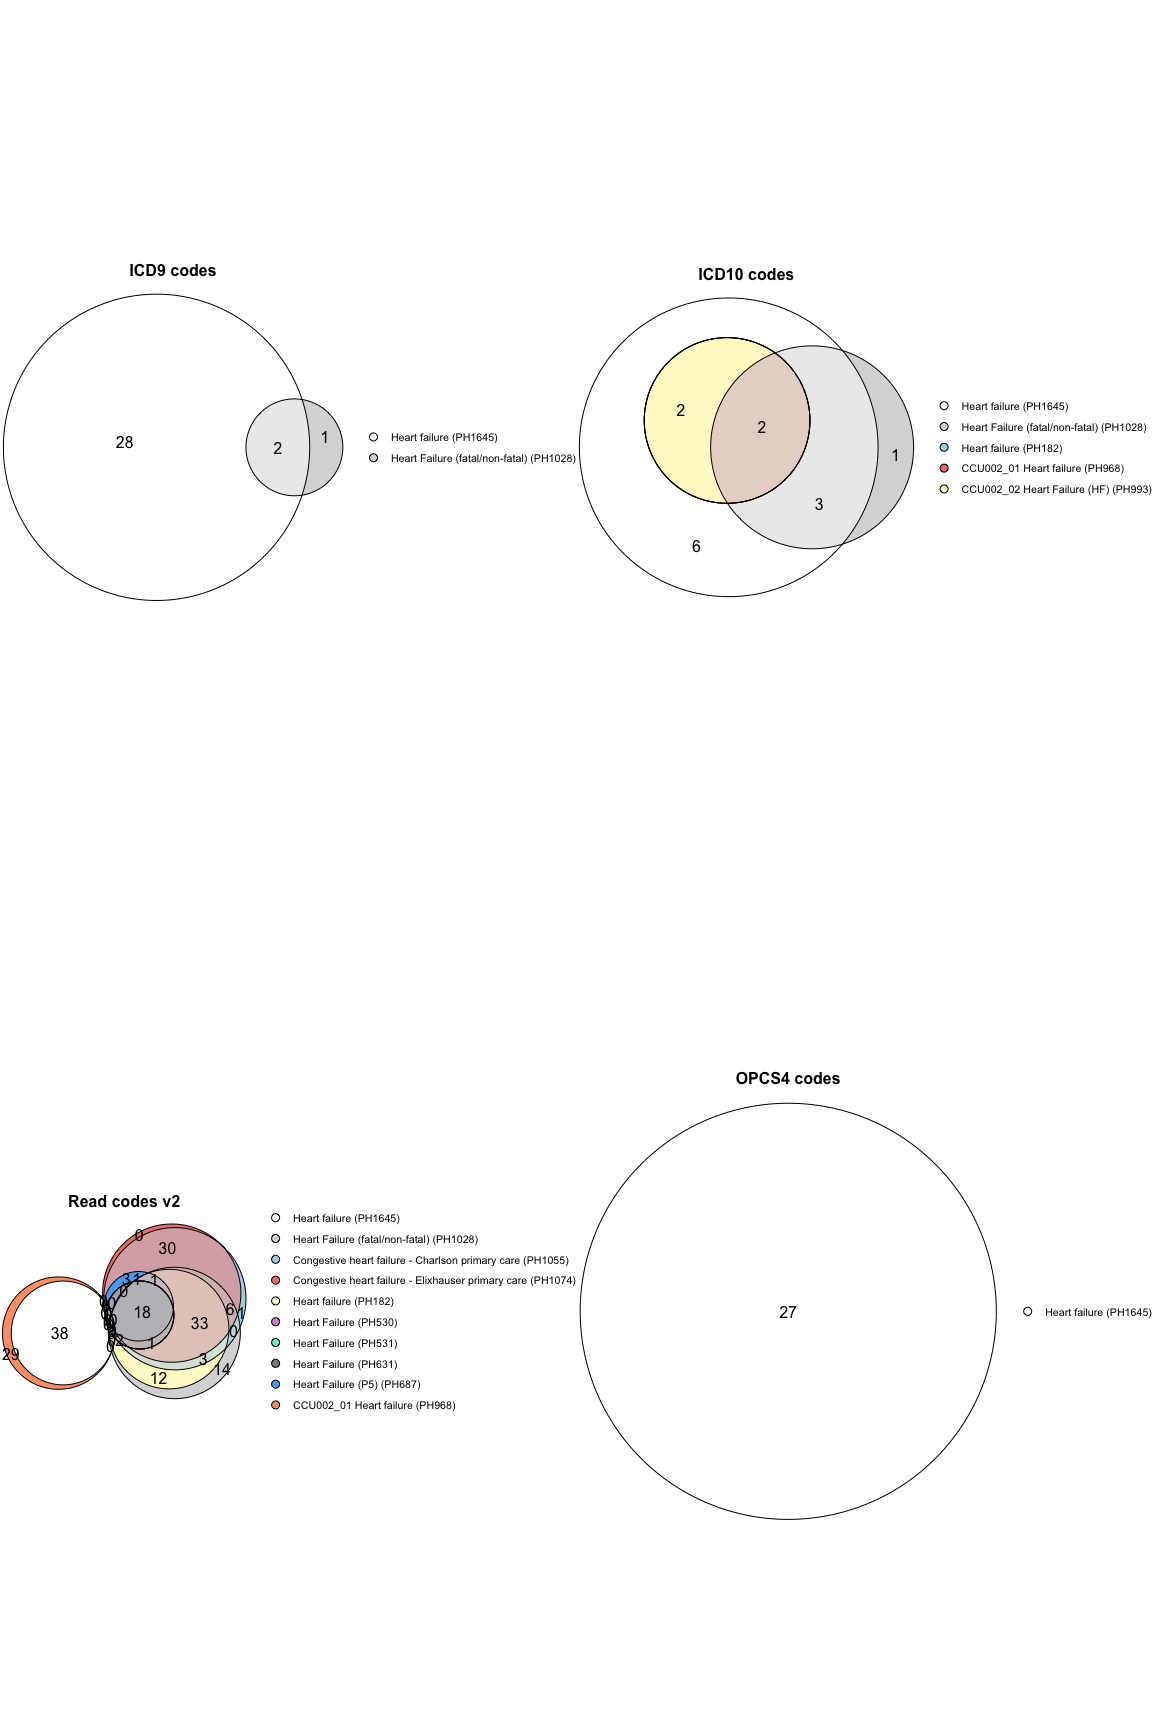
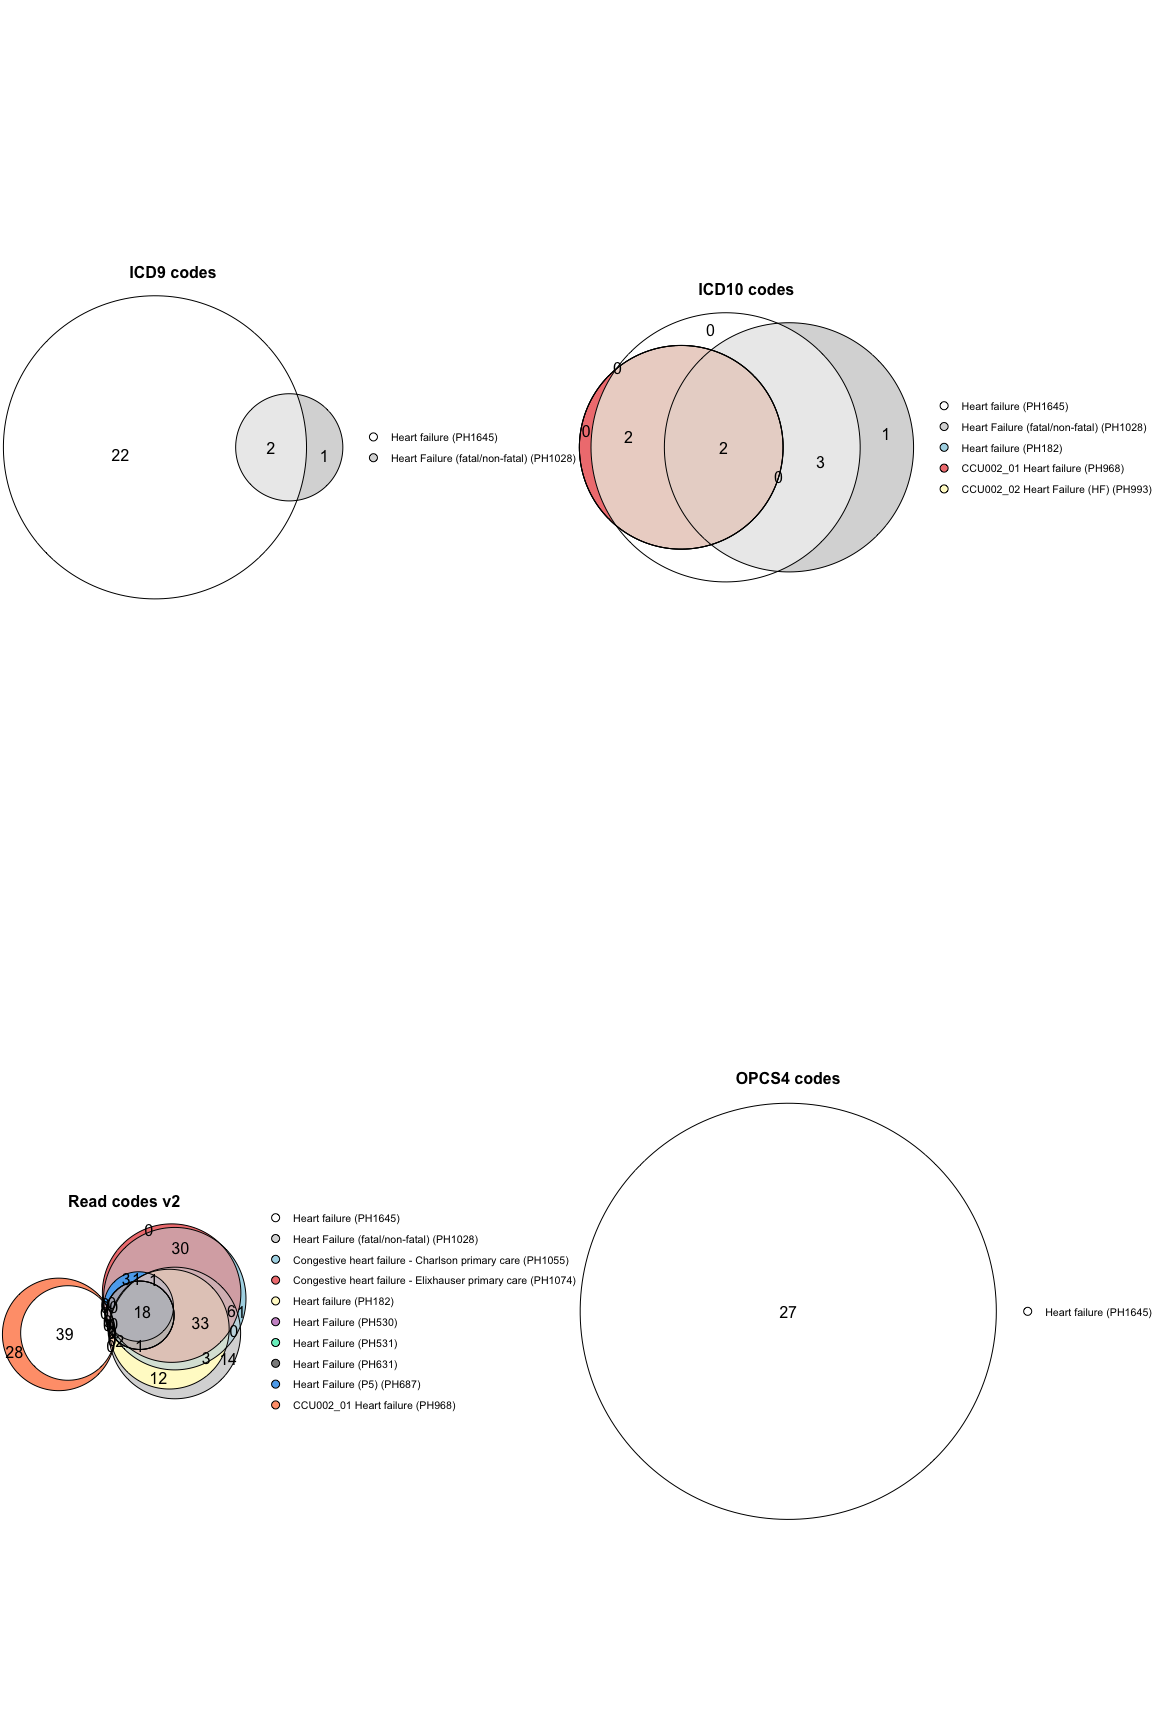
.

diff --git a/README.md b/README.md
@@ -57,10 +57,10 @@ get_codes(pheno_id = "PH1645")[1:5, c("phenotype_id", "phenotype_name", "coding_
 #>    phenotype_id phenotype_name coding_system.name   code
 #>          <char>         <char>             <char> <char>
 #> 1:       PH1645  Heart failure         ICD9 codes  40201
-#> 2:       PH1645  Heart failure         ICD9 codes  42830
-#> 3:       PH1645  Heart failure         ICD9 codes  42832
-#> 4:       PH1645  Heart failure         ICD9 codes   4281
-#> 5:       PH1645  Heart failure         ICD9 codes  42843
+#> 2:       PH1645  Heart failure         ICD9 codes  42832
+#> 3:       PH1645  Heart failure         ICD9 codes  42821
+#> 4:       PH1645  Heart failure         ICD9 codes  42823
+#> 5:       PH1645  Heart failure         ICD9 codes  42820
 ```
 
 ### Phenotyping a dataset
@@ -100,28 +100,28 @@ can be multiple included or excluded phenotypes given in a list.
 result <- phenotype(x         = dat, 
                     id_col    = "ids",
                     code_cols = list("ICD10 codes" = c("codes", "codes1")), 
-                    include   = list("PH1643", "PH1646"), 
-                    exclude   = list("PH1637", "PH1636", "PH1640"))
+                    include   = list("PH1645"), 
+                    exclude   = list("PH1637"))
 #> Phenotyping...
 #> [i] processing 10 records
 #> [i] pivoting data longer
-#> [i] getting inclusion phenotype codes from PhenoID(s) PH1643, PH1646 
-#> [i] getting exclusion phenotype codes from PhenoID(s) PH1637, PH1636, PH1640 
-#> [i] assessing phenotype PH1643 
-#> [i] assessing phenotype PH1646 
+#> [i] getting inclusion phenotype codes from PhenoID(s) PH1645 
+#> [i] getting exclusion phenotype codes from PhenoID(s) PH1637 
+#> [i] assessing phenotype PH1645 
 #> [i] assessing phenotype PH1637 
-#> [i] assessing phenotype PH1636 
-#> [i] assessing phenotype PH1640 
 #> [i] summarising phenotyping of participants
 #> [i] finished
+```
+
+``` r
 result[]
-#>       ids PH1643 PH1646 PH1637 PH1636 PH1640   none include exclude overall
-#>    <char> <lgcl> <lgcl> <lgcl> <lgcl> <lgcl> <lgcl>  <lgcl>  <lgcl>  <lgcl>
-#> 1:   ID_1  FALSE   TRUE  FALSE  FALSE  FALSE  FALSE    TRUE   FALSE    TRUE
-#> 2:   ID_2  FALSE   TRUE  FALSE  FALSE  FALSE  FALSE    TRUE   FALSE    TRUE
-#> 3:   ID_3  FALSE  FALSE  FALSE  FALSE  FALSE   TRUE   FALSE   FALSE   FALSE
-#> 4:   ID_4  FALSE  FALSE  FALSE  FALSE  FALSE   TRUE   FALSE   FALSE   FALSE
-#> 5:   ID_5  FALSE   TRUE  FALSE  FALSE  FALSE  FALSE    TRUE   FALSE    TRUE
+#>       ids PH1645 PH1637   none include exclude overall
+#>    <char> <lgcl> <lgcl> <lgcl>  <lgcl>  <lgcl>  <lgcl>
+#> 1:   ID_1  FALSE  FALSE   TRUE   FALSE   FALSE   FALSE
+#> 2:   ID_2  FALSE  FALSE   TRUE   FALSE   FALSE   FALSE
+#> 3:   ID_3  FALSE  FALSE   TRUE   FALSE   FALSE   FALSE
+#> 4:   ID_4  FALSE  FALSE   TRUE   FALSE   FALSE   FALSE
+#> 5:   ID_5  FALSE  FALSE   TRUE   FALSE   FALSE   FALSE
 ```
 
 #### Code formatting issues
@@ -162,78 +162,70 @@ dat[]
 #> 8  ID_3   baz    baz
 #> 9  ID_4   foo    foo
 #> 10 ID_5   foo  I42.0
+```
+
+``` r
 
 # without dealing with the error ID_5 is incorrectly classified as no HF. 
 wrong <- phenotype(x         = dat, 
                    id_col    = "ids",
                    code_cols = list("ICD10 codes" = c("codes", "codes1")),
-                   include   = list(HFsyn  = "PH1643", CM = "PH1646"), 
-                   exclude   = list(congHD = "PH1637", MI = "PH1636", HCM = "PH1640"), 
+                   include   = list(HF     = "PH1645"), 
+                   exclude   = list(congHD = "PH1637"), 
                    name      = "Heart Failure")
 #> Phenotyping...
 #> [i] processing 10 records
 #> [i] pivoting data longer
-#> [i] getting inclusion phenotype codes from PhenoID(s) PH1643, PH1646 
-#> [i] getting exclusion phenotype codes from PhenoID(s) PH1637, PH1636, PH1640 
-#> [i] assessing phenotype PH1643 
-#> [i] assessing phenotype PH1646 
+#> [i] getting inclusion phenotype codes from PhenoID(s) PH1645 
+#> [i] getting exclusion phenotype codes from PhenoID(s) PH1637 
+#> [i] assessing phenotype PH1645 
 #> [i] assessing phenotype PH1637 
-#> [i] assessing phenotype PH1636 
-#> [i] assessing phenotype PH1640 
 #> [i] summarising phenotyping of participants
 #> [i] finished
+```
+
+``` r
 wrong[]
-#>       ids  HFsyn     CM congHD     MI    HCM   none include exclude
-#>    <char> <lgcl> <lgcl> <lgcl> <lgcl> <lgcl> <lgcl>  <lgcl>  <lgcl>
-#> 1:   ID_1  FALSE   TRUE  FALSE  FALSE  FALSE  FALSE    TRUE   FALSE
-#> 2:   ID_2  FALSE   TRUE  FALSE  FALSE  FALSE  FALSE    TRUE   FALSE
-#> 3:   ID_3  FALSE  FALSE  FALSE  FALSE  FALSE   TRUE   FALSE   FALSE
-#> 4:   ID_4  FALSE  FALSE  FALSE  FALSE  FALSE   TRUE   FALSE   FALSE
-#> 5:   ID_5  FALSE  FALSE  FALSE  FALSE  FALSE   TRUE   FALSE   FALSE
-#>    Heart Failure
-#>           <lgcl>
-#> 1:          TRUE
-#> 2:          TRUE
-#> 3:         FALSE
-#> 4:         FALSE
-#> 5:         FALSE
+#>       ids     HF congHD   none include exclude Heart Failure
+#>    <char> <lgcl> <lgcl> <lgcl>  <lgcl>  <lgcl>        <lgcl>
+#> 1:   ID_1  FALSE  FALSE   TRUE   FALSE   FALSE         FALSE
+#> 2:   ID_2  FALSE  FALSE   TRUE   FALSE   FALSE         FALSE
+#> 3:   ID_3  FALSE  FALSE   TRUE   FALSE   FALSE         FALSE
+#> 4:   ID_4  FALSE  FALSE   TRUE   FALSE   FALSE         FALSE
+#> 5:   ID_5  FALSE  FALSE   TRUE   FALSE   FALSE         FALSE
+```
+
+``` r
 
 # deal with formatting issue using gsub
 pheno <- phenotype(x         = dat, 
                    id_col    = "ids",
                    code_cols = list("ICD10 codes" = c("codes", "codes1")),
-                   include   = list(HFsyn  = "PH1643", CM = "PH1646"), 
-                   exclude   = list(congHD = "PH1637", MI = "PH1636", HCM = "PH1640"), 
+                   include   = list(HF     = "PH1645"), 
+                   exclude   = list(congHD = "PH1637"), 
                    gsub      = list("\\.", "", c("x")),
                    name      = "Heart Failure")
 #> Phenotyping...
 #> [i] processing 10 records
 #> [i] pivoting data longer
 #> [i] cleaning input codes with regex [ \. ], replacement [  ]
-#> [i] getting inclusion phenotype codes from PhenoID(s) PH1643, PH1646 
-#> [i] getting exclusion phenotype codes from PhenoID(s) PH1637, PH1636, PH1640 
-#> [i] assessing phenotype PH1643 
-#> [i] assessing phenotype PH1646 
+#> [i] getting inclusion phenotype codes from PhenoID(s) PH1645 
+#> [i] getting exclusion phenotype codes from PhenoID(s) PH1637 
+#> [i] assessing phenotype PH1645 
 #> [i] assessing phenotype PH1637 
-#> [i] assessing phenotype PH1636 
-#> [i] assessing phenotype PH1640 
 #> [i] summarising phenotyping of participants
 #> [i] finished
+```
+
+``` r
 pheno[]
-#>       ids  HFsyn     CM congHD     MI    HCM   none include exclude
-#>    <char> <lgcl> <lgcl> <lgcl> <lgcl> <lgcl> <lgcl>  <lgcl>  <lgcl>
-#> 1:   ID_1  FALSE   TRUE  FALSE  FALSE  FALSE  FALSE    TRUE   FALSE
-#> 2:   ID_2  FALSE   TRUE  FALSE  FALSE  FALSE  FALSE    TRUE   FALSE
-#> 3:   ID_3  FALSE  FALSE  FALSE  FALSE  FALSE   TRUE   FALSE   FALSE
-#> 4:   ID_4  FALSE  FALSE  FALSE  FALSE  FALSE   TRUE   FALSE   FALSE
-#> 5:   ID_5  FALSE   TRUE  FALSE  FALSE  FALSE  FALSE    TRUE   FALSE
-#>    Heart Failure
-#>           <lgcl>
-#> 1:          TRUE
-#> 2:          TRUE
-#> 3:         FALSE
-#> 4:         FALSE
-#> 5:          TRUE
+#>       ids     HF congHD   none include exclude Heart Failure
+#>    <char> <lgcl> <lgcl> <lgcl>  <lgcl>  <lgcl>        <lgcl>
+#> 1:   ID_1  FALSE  FALSE   TRUE   FALSE   FALSE         FALSE
+#> 2:   ID_2  FALSE  FALSE   TRUE   FALSE   FALSE         FALSE
+#> 3:   ID_3  FALSE  FALSE   TRUE   FALSE   FALSE         FALSE
+#> 4:   ID_4  FALSE  FALSE   TRUE   FALSE   FALSE         FALSE
+#> 5:   ID_5  FALSE  FALSE   TRUE   FALSE   FALSE         FALSE
 ```
 
 ------------------------------------------------------------------------
@@ -293,12 +285,7 @@ website (stored in a local `.Renviron` file in this example.)
 
 ``` r
 # development phenotypes, ids named for readability only
-hermes_phenos <- c(`Congenital heart disease`    = "PH1637", 
-                   `Myocardial infarction`       = "PH1636", 
-                   `Cardiomyopathy (exc. HCM, restrictive, ischaemic & infective)`  = "PH1646",
-                   `Cardiomyopathy (all)`        = "PH1647", 
-                   `Hypertrophic cardiomyopathy` = "PH1640", 
-                   `Dilated cardiomyopathy`      = "PH1638", 
+hermes_phenos <- c(`Congenital heart disease`    = "PH1637",
                    `Heart failure`               = "PH1645")
 
 # update
@@ -321,54 +308,6 @@ plot_code_overlap(pheno_ids = c("PH1645", "PH1028", "PH1055", "PH1074", "PH182",
 ```
 
 <img src="man/figures/README-plot-1.png" width="80%" style="display: block; margin: auto;" />
-
-------------------------------------------------------------------------
-
-### Example phenotyping of UKBB data
-
-Phenotyping of the UK biobank hospital admissions data.
-
-``` r
-pheno_ukbb <- phenotype(file_path, 
-                        id_col    = "eid", 
-                        code_cols = list("ICD10 codes" = "diag_icd10", "ICD9 codes" = "diag_icd9"),
-                        include   = list(HF  = "PH1645", CM = "PH1646"), 
-                        exclude   = list(congHD = "PH1637", MI = "PH1636", HCM = "PH1640"), 
-                        gsub      = list("\\.", "", c("x")),
-                        name      = "Heart Failure")
-
-plot(eulerr::euler(pheno_ukbb[, mget(names(pheno_ukbb)[!names(pheno_ukbb) %in% c("eid", "none")])], shape = "circle"),
-          quantities = TRUE,
-          labels     = FALSE,
-          main       = list(label = "UKBB Heart failure phenotyping", fontsize = 8, font = 2),
-          legend     = list(fontsize = 8))
-```
-
-<img src="man/figures/README-plot_hermes_ukbb.png" align="centre" width="80%"/>
-
-------------------------------------------------------------------------
-
-### Plot the ICD-10 HERMES phenotypes
-
-Plot the overlap of the HERMES phenotypes with all other heart failure
-phenotypes in the UKHDR Phenotype library.
-
-``` r
-plot_code_overlap(pheno_ids = hermes_phenos, types = c("ICD10 codes"))
-```
-
-<img src="man/figures/README-plot_hermes-1.png" align="centre" width="80%"/>
-
-------------------------------------------------------------------------
-
-### Co-occurrence of UKBB ICD-10 codes
-
-Co-occurrence matrix of heart failure (PH1645) and cardiomyopathy
-(PH1646) codes.
-
-<img src="man/figures/cooccurrence.png" align="centre" width="100%"/>
-
-------------------------------------------------------------------------
 
 ### ESC primary cardiomyopathy phenotypes
 
